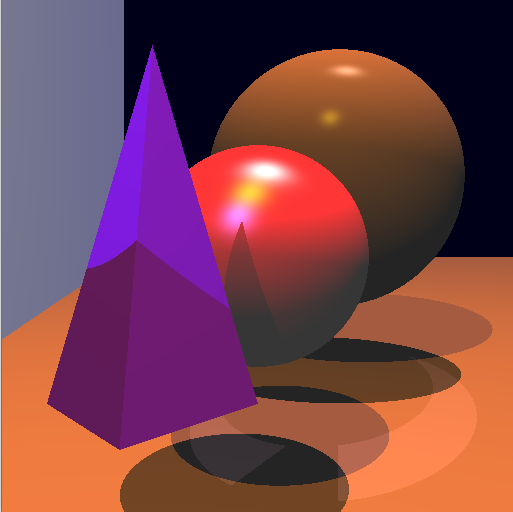
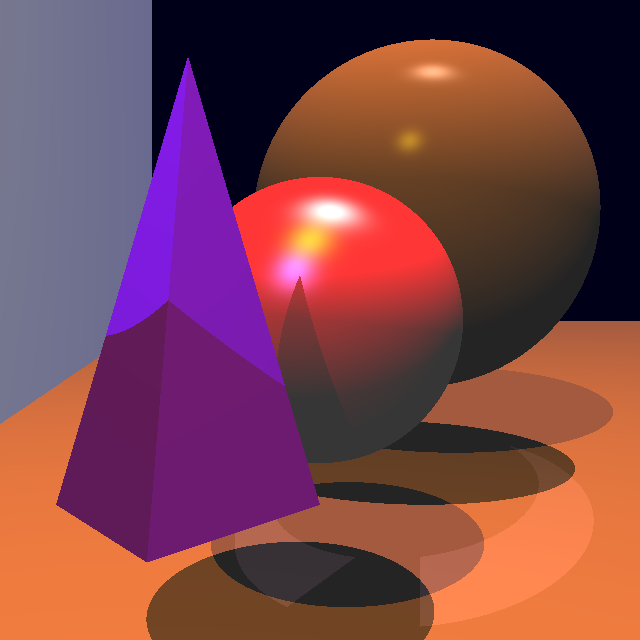
mesh refraction is working now

diff --git a/src/raytracer.cpp b/src/raytracer.cpp
@@ -208,16 +208,17 @@ glm::vec3 refractRay(glm::vec3 hitPos, glm::vec3 I, glm::vec3 N, float eta, bool
 	float dotIN = dot(I, N);
 	float k = 1 - eta * eta * (1 - dotIN * dotIN);
 
-	if (k < 0) { 
-		// total internal reflection	
-		if (inside)
-		{
-			reflectRay(hitPos, N, -I);
+	if (inside) {
+		if (k < 0) {
+			return glm::vec3(0, 0, 0);
 		}
-		return glm::vec3(0, 0, 0);
+		else {
+			return normalize(eta * (I - N * dotIN) - N * sqrt(k));
+		}
 	}
 	else {
-		return normalize(eta * (I - N * dotIN) - N * sqrt(k)); 
+		assert(k > 0);		
+		return normalize(eta * (I - N * dotIN) - N * sqrt(k));				
 	}
 	
 }
@@ -229,6 +230,7 @@ bool trace(const point3& rayOrigin, const point3& screenPoint, glm::vec3& colour
 
 	int bounces = 5;
 	colour = trace(rayOrigin, rayDir, bounces, false, pick);
+	//colour = trace(rayOrigin, rayDir, bounces, true, pick);
 
 	return colour != background_colour;
 }
@@ -283,7 +285,15 @@ glm::vec3 trace(glm::vec3 rayOrigin, glm::vec3 rayDir, int bouncesLeft, bool ins
 				float eta;
 				inside == true ? eta = material->refraction : eta = 1.0 / material->refraction;
 				glm::vec3 refrDir = refractRay(hitPos, rayDir, N, eta, inside);
-				colour += material->transmission * trace(hitPos, refrDir, bouncesLeft, !inside, pick);
+				if (refrDir == glm::vec3(0, 0, 0)) {
+					if (bouncesLeft > 0) {
+						glm::vec3 internalRefl = reflectRay(hitPos, N, V);
+						colour = trace(hitPos, internalRefl, bouncesLeft-1, inside, pick);
+					}				
+				}
+				else {
+					colour += material->transmission * trace(hitPos, refrDir, bouncesLeft, !inside, pick);
+				}				
 			}	
 			else {
 				colour += material->transmission * trace(hitPos, rayDir, bouncesLeft, inside, pick);

diff --git a/src/model.cpp b/src/model.cpp
@@ -57,8 +57,6 @@ bool Plane::isHit(glm::vec3 rayOrigin, glm::vec3 rayDir, float minRayLen, float 
 
 	float dotND = dot(normal, rayDir);
 	
-	// Assuming that the normal is always correct
-	//if ((dotND < 0 && !inside) || (dotND > 0 && inside)) { 
 	if(dotND < 0){
 		rayLen = dot(normal, position - rayOrigin) / dotND;
 
@@ -83,16 +81,24 @@ bool Triangle::isHit(glm::vec3 rayOrigin, glm::vec3 rayDir, float minRayLen, flo
 	glm::vec3 N = normalize(cross((b - a), (c - a)));
 	inside == true ? plane->normal = -N : plane->normal = N;
 	   
-	plane->normal = normalize(cross((b - a), (c - a)));
 
 	if (plane->isHit(rayOrigin, rayDir, minRayLen, maxRayLen, inside)) {
 		glm::vec3 hitPos = rayOrigin + plane->rayLen * rayDir;
 
-		bool axProj = dot(cross((b - a), (hitPos - a)), plane->normal) > 0;
-		bool bxProj = dot(cross((c - b), (hitPos - b)), plane->normal) > 0;
-		bool cxProj = dot(cross((a - c), (hitPos - c)), plane->normal) > 0;
+		bool axProj = dot(cross((b - a), (hitPos - a)), plane->normal) < 0;
+		bool bxProj = dot(cross((c - b), (hitPos - b)), plane->normal) < 0;
+		bool cxProj = dot(cross((a - c), (hitPos - c)), plane->normal) < 0;
 		
-		if (axProj && bxProj && cxProj) {
+		bool hit;
+		if (inside) {
+			hit = axProj && bxProj && cxProj;
+		}
+		else
+		{
+			hit = !axProj && !bxProj && !cxProj;
+		}
+
+		if (hit) {
 			normal = plane->normal;
 			rayLen = plane->rayLen;			
 			delete plane;

diff --git a/src/main.cpp b/src/main.cpp
@@ -109,7 +109,7 @@ main( int argc, char **argv )
 {
    glutInit( &argc, argv );
    glutInitDisplayMode( GLUT_RGBA | GLUT_DOUBLE | GLUT_DEPTH );
-   glutInitWindowSize( 512, 512 );
+   glutInitWindowSize( 640, 640 );
    //glutInitWindowSize(300, 300);
    //glutInitWindowSize(110, 110);
    glutInitContextVersion( 3, 2 );

diff --git a/src/model.h b/src/model.h
@@ -17,7 +17,7 @@
 using namespace std;
 
 const float MAX_RAY_LEN = 999.0f;
-const float MIN_RAY_LEN = 0.0001f;
+const float MIN_RAY_LEN = 0.00001f;
 
 class Material {
 public:
